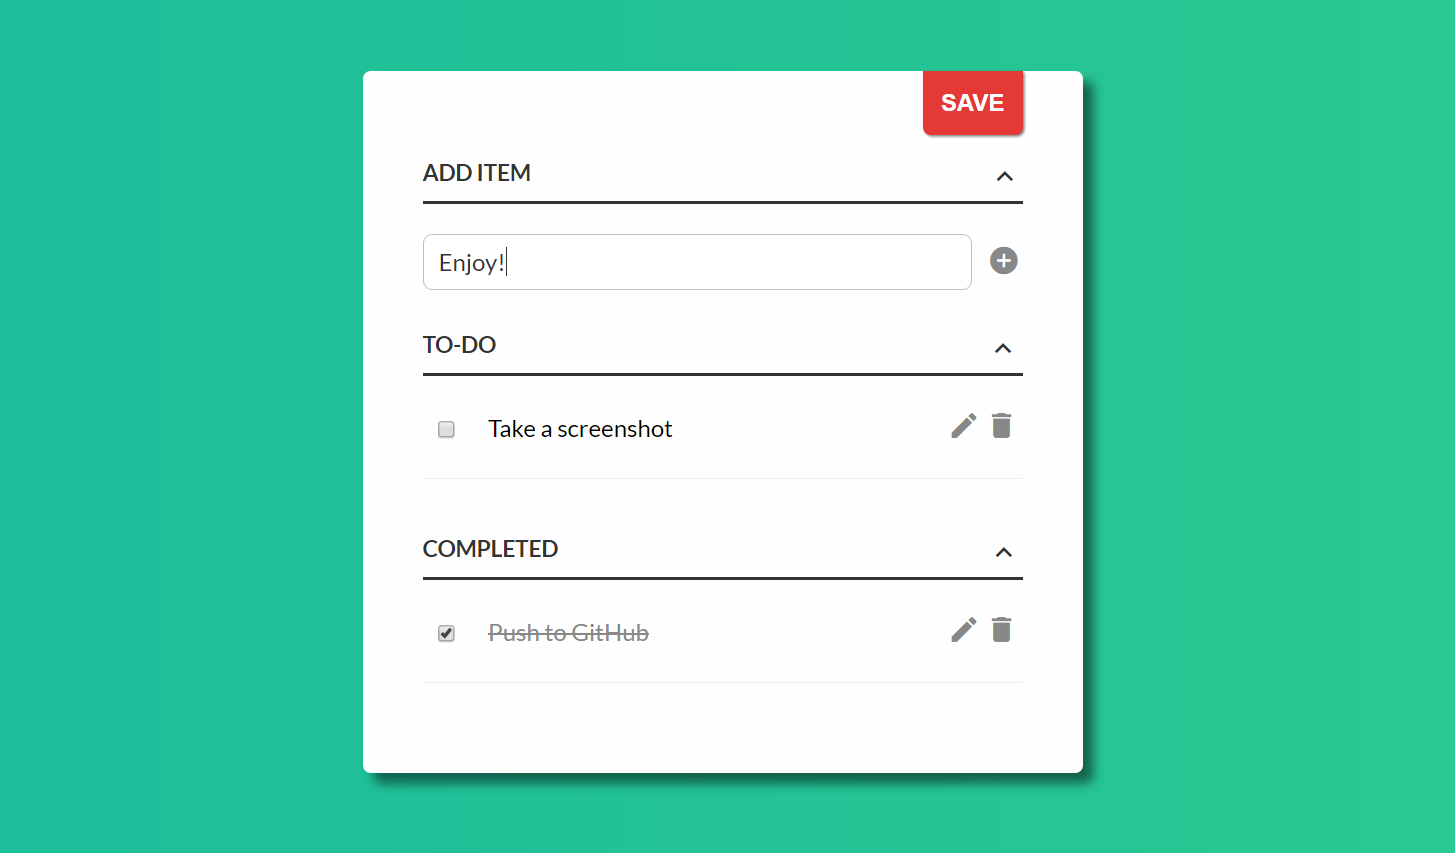
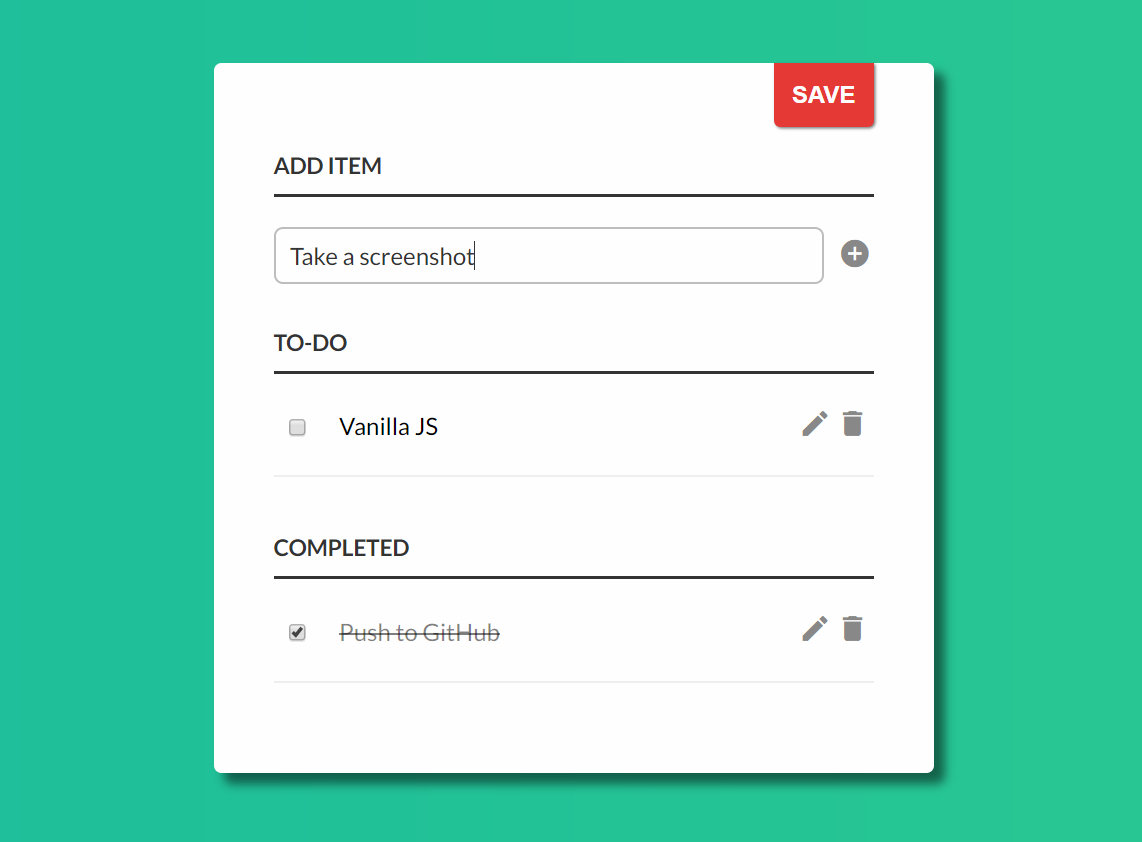
:sparkles: Screenshot (vanilla JS version)

Changed region(s): [[0.1839, 0.0618, 0.8275, 0.9572]]

diff --git a/README.md b/README.md
@@ -4,7 +4,6 @@
 
 Simple [to-do app](http://anna.pm/todo) that allows users to keep track of tasks. All changes can be saved in localStorage.
 
-Speaking of changes, I want to:
+Rewritten in vanilla JavaScript.
 
-* create version with vanilla JS
-* make it responsive
+You can also see previous version (with jQuery).
